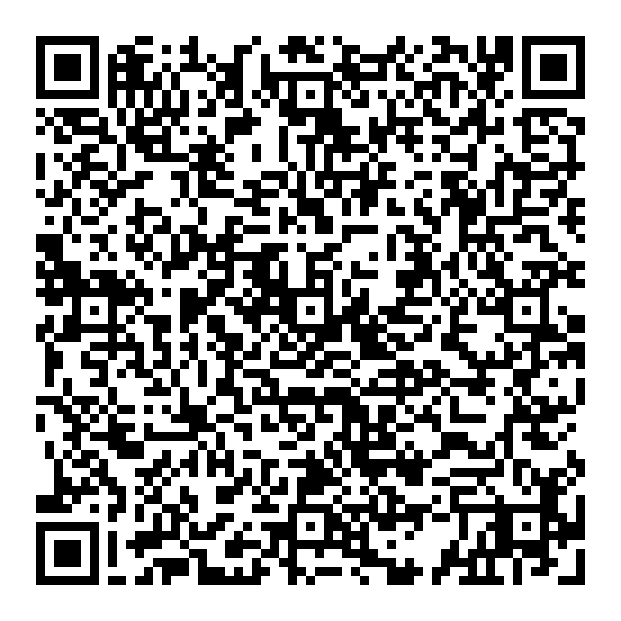
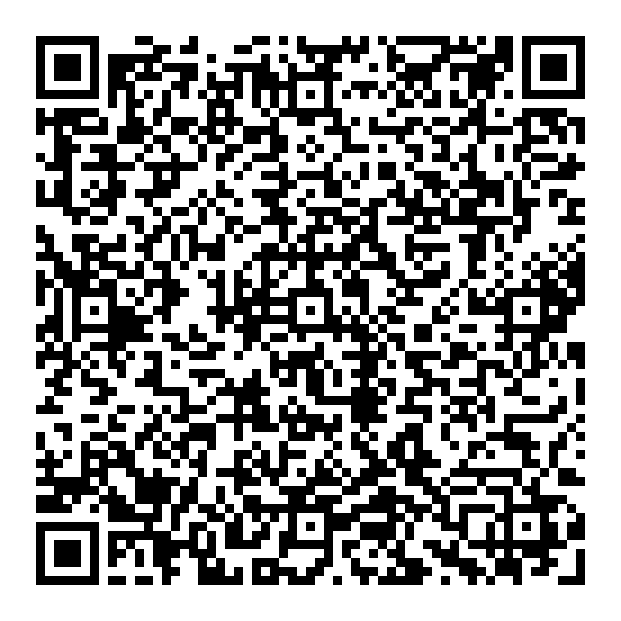
팀장 4회로 확대, 일하는 방식 서비스 기획 중심으로 재작성, 실제 명함 QR 반영
- 팀장 카드: 빅콘테스트, 교내 AI 경진대회, 구독 분석, 강화학습 PPO 역할 요약
- 그 밖의 활동에서 관광데이터 공모전 제외, PPO에 팀장 표시
- 일하는 방식 네 가지를 IT/AI 서비스 기획 관점으로 정리
- It's me: 앱에서 공유하는 실제 대표 명함 QR로 교체하고 설명 수정

Changed region(s): [[0.0306, 0.0612, 0.9485, 0.9485], [0.7955, 0.153, 0.8261, 0.2142]]

diff --git a/index.html b/index.html
@@ -141,16 +141,14 @@
     .survey .mini-facts > span > span { display: block; }
     .survey img { display: block; width: 100%; height: auto; border-radius: 14px; border: 1px solid var(--line); background: #fff; }
 
-    .lead-pair { display: grid; grid-template-columns: 1fr 1fr; gap: 14px; }
+    .lead-grid { display: grid; grid-template-columns: repeat(4, 1fr); gap: 12px; }
+    .lead-card { display: flex; flex-direction: column; }
+    .lead-card p { margin: 0; font-size: 14px; color: var(--ink-2); line-height: 1.65; }
+    .lead-card .more { margin-top: auto; padding-top: 12px; }
     .lead-card { background: #fff; border: 1px solid var(--line); border-radius: 18px; padding: 20px 22px; }
-    .lead-card .when { font: 500 11.5px/1 var(--mono); color: var(--ink-3); }
-    .lead-card h4 { margin: 8px 0 4px; font-size: 17px; letter-spacing: -.3px; }
-    .lead-card .team { font-size: 13px; color: var(--ink-3); margin: 0 0 14px; }
-    .lead-card ol { list-style: none; margin: 0; padding: 0; display: grid; gap: 12px; counter-reset: mo; }
-    .lead-card li { counter-increment: mo; position: relative; padding-left: 34px; font-size: 14.5px; color: var(--ink-2); line-height: 1.6; }
-    .lead-card li::before { content: counter(mo); position: absolute; left: 0; top: 1px; width: 22px; height: 22px; border-radius: 7px; background: var(--peach); color: var(--wine); font: 700 12px/22px var(--mono); text-align: center; }
-    .lead-card li b { display: block; color: var(--ink); font-size: 15px; }
-    .lead-card .more { display: inline-block; margin-top: 14px; font-size: 13.5px; font-weight: 700; }
+    .lead-card .when { font: 600 12px/1.3 var(--sans); color: var(--ink-3); }
+    .lead-card h4 { margin: 8px 0 10px; font-size: 16.5px; letter-spacing: -.3px; line-height: 1.4; }
+    .lead-card .more { font-size: 13.5px; font-weight: 700; }
 
     /* ---------- HOW I WORK ---------- */
     #how .sec-title em { font-style: normal; background: var(--grad); -webkit-background-clip: text; background-clip: text; color: transparent; }
@@ -278,6 +276,7 @@
       .stats { grid-template-columns: repeat(2, 1fr); }
       .pj-grid { grid-template-columns: repeat(2, 1fr); }
       .svc-grid { grid-template-columns: repeat(3, 1fr); }
+      .lead-grid { grid-template-columns: 1fr 1fr; }
       .principles { grid-template-columns: 1fr; }
       .oth-grid { grid-template-columns: repeat(2, 1fr); }
       .award-pair img { height: 420px; }
@@ -296,7 +295,7 @@
       .stat .lbl { font-size: 13px; }
       .stat-panel { padding: 18px 14px; border-radius: 18px; }
       .svc-grid { grid-template-columns: repeat(2, 1fr); }
-      .award-pair, .survey, .lead-pair { grid-template-columns: 1fr; }
+      .award-pair, .survey, .lead-grid { grid-template-columns: 1fr; }
       .award-pair img { height: auto; max-height: 520px; }
       .pr { grid-template-columns: 1fr; padding: 22px 20px 18px; }
       .pr .metric { grid-column: 1; grid-row: auto; text-align: left; margin-top: 10px; }
@@ -393,9 +392,9 @@
         <span class="open"><span lang="ko">결과 보기</span><span lang="en">Show</span><i class="fa-solid fa-chevron-down" aria-hidden="true"></i></span>
       </button>
       <button class="stat" type="button" aria-expanded="false" aria-controls="panel-lead">
-        <div class="num"><span lang="ko">팀장 2회</span><span lang="en">2× lead</span></div>
-        <div class="lbl"><span lang="ko">교내 AI 경진대회, 빅콘테스트</span><span lang="en">Campus AI contest, BigContest</span></div>
-        <span class="open"><span lang="ko">순간 보기</span><span lang="en">Show</span><i class="fa-solid fa-chevron-down" aria-hidden="true"></i></span>
+        <div class="num"><span lang="ko">팀장 4회</span><span lang="en">4× lead</span></div>
+        <div class="lbl"><span lang="ko">빅콘테스트, 교내 AI 경진대회, 수업 팀 프로젝트 2건</span><span lang="en">BigContest, campus AI contest, two course projects</span></div>
+        <span class="open"><span lang="ko">역할 보기</span><span lang="en">Show</span><i class="fa-solid fa-chevron-down" aria-hidden="true"></i></span>
       </button>
     </div>
 
@@ -492,46 +491,40 @@
       </div>
     </div>
 
-    <!-- 04 팀장 2회 -->
+    <!-- 04 팀장 4회 -->
     <div class="stat-panel" id="panel-lead" hidden>
       <div class="panel-head">
-        <h3 lang="ko">팀장으로 보여 준 순간들</h3><h3 lang="en">Moments as team lead</h3>
-        <p lang="ko">두 프로젝트 모두 전공과 역할이 다른 팀이었습니다.</p><p lang="en">Both were teams with different majors and roles.</p>
+        <h3 lang="ko">팀장으로 맡은 역할</h3><h3 lang="en">What I did as team lead</h3>
+        <p lang="ko">네 팀 모두 전공이나 역할이 서로 달랐습니다.</p><p lang="en">Each team mixed different majors or roles.</p>
       </div>
-      <div class="lead-pair">
+      <div class="lead-grid">
         <article class="lead-card">
-          <span class="when">2026.03</span>
+          <span class="when">2026.09 ~ 10 · <span lang="ko">4인</span><span lang="en">team of 4</span></span>
+          <h4 lang="ko">빅콘테스트 AI데이터활용 캡스톤</h4><h4 lang="en">BigContest AI Data Capstone</h4>
+          <p lang="ko"><span class="s"><span class="u">브랜치, 리뷰, 데이터 보호 규칙을 먼저 세우고</span> <span class="u">의사결정 로그로 팀이 같은 근거를 보게 했습니다.</span></span><span class="s"><span class="u">문제 정의와 분석 설계,</span> <span class="u">AI 에이전트 구현을 맡았습니다.</span></span></p>
+          <p lang="en">Set branch, review and data-protection rules first and kept a decision log; owned problem framing, analysis design and the AI agent build.</p>
+          <a class="more" href="https://github.com/13JVV/capstone-overview" target="_blank" rel="noopener"><span lang="ko">프로젝트 소개</span><span lang="en">Overview</span> ↗</a>
+        </article>
+        <article class="lead-card">
+          <span class="when">2026.03 · <span lang="ko">5인</span><span lang="en">team of 5</span></span>
           <h4 lang="ko">교내 AI 문제해결 경진대회</h4><h4 lang="en">Campus AI Problem-Solving Contest</h4>
-          <p class="team" lang="ko">5인, 경영학·아태물류학·전기전자공학·산업경영공학</p><p class="team" lang="en">Team of 5 from four majors</p>
-          <ol lang="ko">
-            <li><b>공통 문제부터 정했습니다</b><span class="s"><span class="u">네 전공이 서로 다른 말로 안전을 볼 때,</span> <span class="u">‘한정된 순찰 인력과 정비 예산을 어디에 먼저 쓸까’라는 자원 배분 문제로 다시 정의했습니다.</span></span></li>
-            <li><b>산출물을 한 흐름으로 묶었습니다</b><span class="s"><span class="u">위험 정량화, 디지털 트윈, 정책, 물류, 엣지 인프라로 나누되</span> <span class="u">모두 상태, 행동, 결과의 흐름에 연결되게 조율했습니다.</span></span></li>
-            <li><b>제 안을 내려놓았습니다</b><span class="s"><span class="u">전공별 제안이 부딪히자 두 대시보드 안을 직접 만들어 비교했고,</span> <span class="u">팀원 전문성이 더 드러나는 안을 채택해 제 초기 안을 고쳤습니다.</span></span></li>
-          </ol>
-          <ol lang="en">
-            <li><b>Set one shared problem</b>I reframed campus safety as a resource allocation question: where to send limited patrol staff and repair budget first.</li>
-            <li><b>Tied every output into one flow</b>Roles were split by major, but every output had to connect to one state, action, result flow.</li>
-            <li><b>Let go of my own draft</b>When proposals clashed, I built two dashboard options, compared them, and adopted the one that showed my teammates' expertise better.</li>
-          </ol>
+          <p lang="ko"><span class="s"><span class="u">네 전공이 다르게 보던 안전 문제를</span> <span class="u">‘인력과 예산을 어디에 먼저 쓸까’라는 한 질문으로 묶었습니다.</span></span><span class="s"><span class="u">두 화면안을 만들어 비교한 뒤</span> <span class="u">팀원 안을 채택하고 제 안을 고쳤습니다.</span></span></p>
+          <p lang="en">Turned four majors' views into one question, where to spend staff and budget first; built two dashboard options and adopted a teammate's.</p>
           <a class="more" href="projects/campus/"><span lang="ko">사례 보기</span><span lang="en">Case study</span> →</a>
         </article>
         <article class="lead-card">
-          <span class="when">2026.09 ~ 2026.10</span>
-          <h4 lang="ko">빅콘테스트 AI데이터활용 캡스톤</h4><h4 lang="en">BigContest AI Data Capstone</h4>
-          <p class="team" lang="ko">4인, 산업경영공학과 · 사회적 고립 예방 AI 에이전트</p><p class="team" lang="en">Team of 4 · AI agent for preventing social isolation</p>
-          <ol lang="ko">
-            <li><b>일하는 규칙부터 세웠습니다</b><span class="s"><span class="u">main 직접 푸시를 막고,</span> <span class="u">기능별 브랜치와 팀원 확인 뒤 병합하는 규칙을 정했습니다.</span></span></li>
-            <li><b>데이터가 새지 않게 막았습니다</b><span class="s"><span class="u">공모전 원본 데이터와 API 키는</span> <span class="u">커밋 단계의 훅으로 저장소에 올라가지 않게 했습니다.</span></span></li>
-            <li><b>같은 근거로 판단하게 했습니다</b><span class="s"><span class="u">ERD, 회의 정리, 의사결정 로그를 문서로 남겨</span> <span class="u">팀원이 같은 자료를 보고 결정하게 했습니다.</span></span></li>
-            <li><b>가장 무거운 부분을 맡았습니다</b><span class="s"><span class="u">문제 정의와 분석 설계, 데이터 파이프라인,</span> <span class="u">위험도 모형, 에이전트, 정수계획 최적화를 구현했습니다.</span></span></li>
-          </ol>
-          <ol lang="en">
-            <li><b>Set working rules first</b>No direct pushes to main; feature branches merged after a teammate's review.</li>
-            <li><b>Kept data from leaking</b>Commit hooks blocked raw contest data and API keys from the repository.</li>
-            <li><b>Made decisions on shared evidence</b>An ERD, meeting notes and a decision log kept everyone on the same page.</li>
-            <li><b>Took the heaviest part</b>I built the problem framing, pipeline, risk model, agent and integer-programming allocation.</li>
-          </ol>
-          <a class="more" href="https://github.com/13JVV/capstone-overview" target="_blank" rel="noopener"><span lang="ko">프로젝트 소개</span><span lang="en">Overview</span> ↗</a>
+          <span class="when">2026 1<span lang="ko">학기 · 4인</span><span lang="en">st semester · team of 4</span></span>
+          <h4 lang="ko">생성형 AI 구독 모델 분석</h4><h4 lang="en">Generative AI Subscription Study</h4>
+          <p lang="ko"><span class="s"><span class="u">설문 설계를 이끌다 초안에서 모든 속성이 앞서는 선택지를 발견해,</span> <span class="u">일정을 늦추더라도 다시 설계하자고 결정했습니다.</span></span><span class="s">유효 응답 113명을 모았습니다.</span></p>
+          <p lang="en">Led survey design; when the draft had options that beat others on every attribute, I chose to delay and redesign. Collected 113 valid responses.</p>
+          <a class="more" href="projects/subscription/"><span lang="ko">사례 보기</span><span lang="en">Case study</span> →</a>
+        </article>
+        <article class="lead-card">
+          <span class="when"><span lang="ko">수업 프로젝트 · 3인</span><span lang="en">Course project · team of 3</span></span>
+          <h4 lang="ko">강화학습 PPO</h4><h4 lang="en">Reinforcement Learning (PPO)</h4>
+          <p lang="ko"><span class="s"><span class="u">10개 설정을 3개 시드로 돌리는 실험을 맡고,</span> <span class="u">평균뿐 아니라 시드 간 편차까지 보는 기준으로 최종 설정을 골랐습니다.</span></span></p>
+          <p lang="en">Ran 10 settings across 3 seeds and picked the final setting by spread across seeds, not the mean alone.</p>
+          <a class="more" href="projects/lunar/"><span lang="ko">사례 보기</span><span lang="en">Case study</span> →</a>
         </article>
       </div>
     </div>
@@ -540,43 +533,43 @@
     <section class="sec" id="how">
       <div class="sec-head reveal">
         <p class="sec-kicker">How I work</p>
-        <h2 class="sec-title" lang="ko"><span class="u">산업경영공학으로 배운 방식으로</span> <span class="u"><em>기획합니다</em></span></h2>
-        <h2 class="sec-title" lang="en">I plan the way <em>industrial engineering</em> taught me</h2>
-        <p class="sec-desc" lang="ko">작게 검증하고, 숫자로 고르고, 제약 안에서 배분하고, 결과를 시험합니다.</p>
-        <p class="sec-desc" lang="en">Validate small, choose with numbers, allocate under constraints, and test the result.</p>
+        <h2 class="sec-title" lang="ko"><span class="u">사용자 문제를</span> <span class="u"><em>서비스로 만드는</em> 네 가지 방식</span></h2>
+        <h2 class="sec-title" lang="en">Four ways I turn user problems <em>into services</em></h2>
+        <p class="sec-desc" lang="ko"><span class="s"><span class="u">IT, AI 서비스를 기획하고 출시하며 지켜 온 습관입니다.</span> <span class="u">산업경영공학에서 배운 실험 설계와 데이터 분석은 결정의 근거로 사용합니다.</span></span></p>
+        <p class="sec-desc" lang="en">Habits I kept while planning and shipping IT and AI services. What I learned in industrial engineering, experiment design and data analysis, backs my decisions.</p>
       </div>
       <div class="principles">
         <article class="pr reveal">
-          <div class="idx"><span class="no">01</span><span class="ie">MVP</span></div>
-          <h3 lang="ko">MVP로 먼저 검증합니다</h3><h3 lang="en">Validate with an MVP first</h3>
-          <p lang="ko"><span class="s"><span class="u">핵심 가설 하나만 담은 MVP를 먼저 내고,</span> <span class="u">실제 사용 흐름과 심사 의견을 본 뒤 기능을 붙입니다.</span></span></p>
-          <p lang="en">I ship an MVP that tests one core hypothesis, then add features after seeing real usage and store review notes.</p>
+          <div class="idx"><span class="no">01</span><span class="ie" lang="ko">MVP · 출시 후 개선</span><span class="ie" lang="en">MVP · iterate after launch</span></div>
+          <h3 lang="ko">MVP로 먼저 내고, 반응을 보고 고칩니다</h3><h3 lang="en">Ship an MVP, then fix what users show me</h3>
+          <p lang="ko"><span class="s"><span class="u">핵심 기능 하나로 출시한 뒤</span> <span class="u">사용자 피드백과 스토어 심사 의견을 다음 기능의 우선순위로 바꿉니다.</span></span></p>
+          <p lang="en">I launch with one core feature, then turn user feedback and store review notes into the next priorities.</p>
           <div class="metric"><span class="v">2<small style="font-size:20px">개</small></span><span class="k" lang="ko">스토어에 직접 출시한 앱</span><span class="k" lang="en">apps I shipped to stores</span></div>
-          <div class="ev"><b>It's me</b> <span lang="ko">명함 생성과 QR 공유로 MVP 출시 → 반려 3건과 피드백 반영 → 명함 인식, 지갑 추가</span><span lang="en">MVP with card creation and QR sharing → fixed 3 store rejections and feedback → added card scan and wallet</span></div>
+          <div class="ev"><b>It's me</b> <span lang="ko">명함 생성과 QR 공유로 출시 → 심사 반려 3건과 지인 피드백 반영 → 명함 인식, 지갑 추가, 세로 명함과 4개 탭으로 재구성</span><span lang="en">launched with card creation and QR sharing → fixed 3 store rejections and feedback → added card scan, wallet, and a 4-tab layout</span></div>
         </article>
         <article class="pr reveal">
-          <div class="idx"><span class="no">02</span><span class="ie" lang="ko">실험계획 · 선택모형</span><span class="ie" lang="en">Experiment design · choice model</span></div>
-          <h3 lang="ko">사용자 선호는 숫자로 측정합니다</h3><h3 lang="en">Measure preference in numbers</h3>
-          <p lang="ko"><span class="s"><span class="u">“다 중요하다”로 끝나는 평점 대신</span> <span class="u">사용자가 무엇을 포기하고 고르는지 선택 실험으로 재고 우선순위를 정합니다.</span></span></p>
-          <p lang="en">Instead of ratings where everything is "important", I measure trade-offs with choice experiments and set priorities from them.</p>
-          <div class="metric"><span class="v">26.4%</span><span class="k" lang="ko">전문성의 상대적 중요도 (정확도 16.4%)</span><span class="k" lang="en">importance of expertise (accuracy 16.4%)</span></div>
-          <div class="ev"><b lang="ko">구독 모델 분석</b><b lang="en">Subscription study</b> <span lang="ko">113명 이산선택실험, ‘정확도가 1순위’라는 가설이 데이터로 지지되지 않음</span><span lang="en">113 respondents; the "accuracy first" hypothesis was not supported</span></div>
+          <div class="idx"><span class="no">02</span><span class="ie" lang="ko">사용자 리서치 · 우선순위</span><span class="ie" lang="en">User research · priorities</span></div>
+          <h3 lang="ko">기능 우선순위는 사용자의 선택으로 정합니다</h3><h3 lang="en">Users' choices set feature priorities</h3>
+          <p lang="ko"><span class="s"><span class="u">“다 중요하다”는 답 대신,</span> <span class="u">사용자가 무엇을 포기하고 무엇을 고르는지 실험으로 확인합니다.</span></span><span class="s">팀의 가정이 틀렸다면 데이터를 따릅니다.</span></p>
+          <p lang="en">Instead of "everything matters", I test what users give up and what they pick. When our assumption is wrong, I follow the data.</p>
+          <div class="metric"><span class="v">26.4%</span><span class="k" lang="ko">1순위는 정확도가 아니라 전문성 (113명)</span><span class="k" lang="en">top factor was expertise, not accuracy (113 people)</span></div>
+          <div class="ev"><b lang="ko">생성형 AI 구독 분석</b><b lang="en">AI subscription study</b> <span lang="ko">‘정확도가 가장 중요하다’는 팀 가설이 선택 실험에서 지지되지 않아, 기능 우선순위를 다시 검토할 근거로 정리</span><span lang="en">the "accuracy first" hypothesis was not supported, giving us grounds to revisit feature priorities</span></div>
         </article>
         <article class="pr reveal">
-          <div class="idx"><span class="no">03</span><span class="ie" lang="ko">수리최적화 · 시뮬레이션</span><span class="ie" lang="en">Optimization · simulation</span></div>
-          <h3 lang="ko">한정된 자원은 최적화로 나눕니다</h3><h3 lang="en">Allocate scarce resources by optimization</h3>
-          <p lang="ko"><span class="s"><span class="u">인력과 예산이 모자랄 때 어디에 먼저 쓸지를</span> <span class="u">목적함수와 제약식으로 풀고, 바꾸기 전에 시뮬레이션으로 비교합니다.</span></span></p>
-          <p lang="en">When people and budget run short, I solve where to spend first with an objective and constraints, and compare options in simulation before changing anything.</p>
-          <div class="metric"><span class="v word" lang="ko">정수계획</span><span class="v word" lang="en">Integer programming</span><span class="k" lang="ko">복지 인력시간 배분 + 민감도 분석</span><span class="k" lang="en">welfare staff-hour allocation + sensitivity</span></div>
-          <div class="ev"><b lang="ko">빅콘테스트, 교내 경진대회, 생산공정</b><b lang="en">BigContest, campus contest, production line</b> <span lang="ko">정수계획 배분, 순찰과 정비의 순차 의사결정(PPO) 설계, Arena 공정 개선안 비교</span><span lang="en">integer-programming allocation, PPO patrol and repair design, Arena process comparison</span></div>
-        </article>
-        <article class="pr reveal">
-          <div class="idx"><span class="no">04</span><span class="ie" lang="ko">검증 설계</span><span class="ie" lang="en">Validation design</span></div>
-          <h3 lang="ko">AI 결과에는 검증 기준을 붙입니다</h3><h3 lang="en">Attach a test to every AI result</h3>
-          <p lang="ko"><span class="s"><span class="u">AI가 만든 결과는 정답을 아는 데이터로 시험하고,</span> <span class="u">틀릴 수 있는 지점에는 사람이 확인하는 단계를 넣습니다.</span></span></p>
-          <p lang="en">I test AI output against data with known answers, and put a human check where it can go wrong.</p>
+          <div class="idx"><span class="no">03</span><span class="ie" lang="ko">AI 서비스 설계</span><span class="ie" lang="en">AI service design</span></div>
+          <h3 lang="ko">AI 기능에는 검증과 사람의 확인을 붙입니다</h3><h3 lang="en">AI features come with tests and a human check</h3>
+          <p lang="ko"><span class="s"><span class="u">AI가 만든 결과는 출시 전에 정답을 아는 데이터로 시험하고,</span> <span class="u">틀릴 수 있는 지점에는 사용자가 확인하는 단계를 화면에 넣습니다.</span></span></p>
+          <p lang="en">Before launch I test AI output against data with known answers, and put a review step on screen where it can go wrong.</p>
           <div class="metric"><span class="v">90.6%</span><span class="k" lang="ko">CrowdSense 혼잡 등급 상승 1,877건 중 사전 예고 (백테스트)</span><span class="k" lang="en">of 1,877 crowd surges flagged ahead (backtest)</span></div>
-          <div class="ev"><b>J-Verdict, <span lang="ko">징검다리</span><span lang="en">Jinggeomdari</span></b> <span lang="ko">합성데이터 판정 2,400회에서 없는 효과를 있다고 한 비율 2.4%, AI 분석은 교사가 승인한 것만 학생에게</span><span lang="en">2.4% false "effect" calls over 2,400 synthetic runs; only teacher-approved AI output reaches students</span></div>
+          <div class="ev"><b>It's me, <span lang="ko">징검다리</span><span lang="en">Jinggeomdari</span>, J-Verdict</b> <span lang="ko">AI가 읽은 명함은 저장 전에 사용자가 확인, AI 분석은 교사가 승인한 것만 학생에게, 합성데이터 판정 2,400회로 오판율 확인</span><span lang="en">users confirm AI-read cards before saving, only teacher-approved output reaches students, 2,400 synthetic runs to measure false calls</span></div>
+        </article>
+        <article class="pr reveal">
+          <div class="idx"><span class="no">04</span><span class="ie" lang="ko">신뢰를 주는 UX</span><span class="ie" lang="en">Trustworthy UX</span></div>
+          <h3 lang="ko">모르는 것은 모른다고 화면에 보여 줍니다</h3><h3 lang="en">Show users what the service doesn't know</h3>
+          <p lang="ko"><span class="s"><span class="u">데이터가 없거나 모호하면 그럴듯하게 채우지 않고</span> <span class="u">‘확인 필요’, ‘판정 불가’처럼 그 상태를 그대로 알려 줍니다.</span></span></p>
+          <p lang="en">When data is missing or unclear, I don't fill the gap with a guess; the screen says "check needed" or "cannot judge".</p>
+          <div class="metric"><span class="v">1.3%</span><span class="k" lang="ko">동반 조건을 읽을 수 있던 시설 (48,786건 중 626건)</span><span class="k" lang="en">venues with readable pet rules (626 of 48,786)</span></div>
+          <div class="ev"><b><span lang="ko">반갑꼬리</span><span lang="en">Bangapkkori</span>, CrowdSense</b> <span lang="ko">조건이 없는 시설은 ‘가능’이 아니라 ‘확인 필요’로, 오차가 신호보다 큰 데이터는 경보 대신 ‘판정 불가’로 표시</span><span lang="en">venues without rules show "check needed", and data noisier than the signal shows "cannot judge" instead of an alert</span></div>
         </article>
       </div>
     </section>
@@ -716,20 +709,13 @@
           </div>
         </div>
         <div class="oth" tabindex="0">
-          <div class="oth-top"><span class="when"><span lang="ko">수업 프로젝트</span><span lang="en">Course project</span></span><h3><span lang="ko">강화학습 PPO</span><span lang="en">Reinforcement Learning (PPO)</span></h3></div>
+          <div class="oth-top"><span class="when"><span lang="ko">수업 프로젝트</span><span lang="en">Course project</span></span><h3><span lang="ko">강화학습 PPO</span><span lang="en">Reinforcement Learning (PPO)</span><span class="lead-tag" lang="ko">팀장</span><span class="lead-tag" lang="en">Lead</span></h3></div>
           <div class="oth-pop">
             <p lang="ko">LunarLander에서 PPO 설정별 학습 로그를 비교했습니다.</p>
             <p lang="en">Compared training logs across PPO settings in LunarLander.</p>
             <a href="projects/lunar/"><span lang="ko">사례 보기</span><span lang="en">Case study</span> →</a>
           </div>
         </div>
-        <div class="oth" tabindex="0">
-          <div class="oth-top"><span class="when">2026.07</span><h3><span lang="ko">관광데이터 활용 공모전</span><span lang="en">Tourism Data Contest</span></h3></div>
-          <div class="oth-pop">
-            <p lang="ko">반갑꼬리로 공모전에 제출하고 발표를 마쳤습니다.</p>
-            <p lang="en">Submitted and presented Bangapkkori.</p>
-            <a href="projects/pet/"><span lang="ko">반갑꼬리 보기</span><span lang="en">See Bangapkkori</span> →</a>
-          </div>
         </div>
       </div>
     </section>

diff --git a/projects/itsme/index.html b/projects/itsme/index.html
@@ -235,7 +235,7 @@
                   <h3>설치한 뒤, 앱 하단 ‘스캔’ 탭으로 제 명함 QR을 찍습니다</h3>
                   <p><span class="s"><span class="u">앱에 들어 있는 스캐너가 It's me 명함 링크를 읽고</span> <span class="u">받은 명함 카드를 띄웁니다.</span></span><span class="s">‘지갑에 저장’을 누르면 제 명함이 지갑에 들어갑니다.</span></p>
                   <div class="meta">
-                    <a class="direct" data-card-link href="https://persona-772ab.web.app/card/s?n=%EC%8B%A0%EC%9E%AC%EC%9A%B0&amp;o=%EC%9D%B8%ED%95%98%EB%8C%80%ED%95%99%EA%B5%90%20%EC%82%B0%EC%97%85%EA%B2%BD%EC%98%81%EA%B3%B5%ED%95%99%EA%B3%BC&amp;r=AI%C2%B7IT%20%EC%84%9C%EB%B9%84%EC%8A%A4%20%EA%B8%B0%ED%9A%8D" target="_blank" rel="noopener"><i class="fa-solid fa-arrow-up-right-from-square" aria-hidden="true"></i>QR을 찍기 어려우면 바로 열기</a>
+                    <a class="direct" data-card-link href="https://persona-772ab.web.app/card/s?n=%EC%8B%A0%EC%9E%AC%EC%9A%B0&amp;o=%EC%9D%B8%ED%95%98%EB%8C%80%ED%95%99%EA%B5%90&amp;r=%EB%8C%80%ED%95%99%EA%B5%90%204%ED%95%99%EB%85%84" target="_blank" rel="noopener"><i class="fa-solid fa-arrow-up-right-from-square" aria-hidden="true"></i>QR을 찍기 어려우면 바로 열기</a>
                   </div>
                 </div>
                 <figure class="qr">
@@ -246,19 +246,19 @@
               <li>
                 <div>
                   <h3>지갑에서 받은 명함을 열어 봅니다</h3>
-                  <p><span class="s">이름, 학과, 역할, 메일이 명함 한 장에 담겨 있습니다.</span><span class="s">언제 받았는지도 함께 남습니다.</span></p>
-                  <div class="fields" aria-label="QR에 담긴 항목"><span>이름</span><span>학과</span><span>역할</span><span>메일</span></div>
+                  <p><span class="s"><span class="u">제 앱 명함의 이름, 소속, 직함, 연락처가</span> <span class="u">한 장에 담겨 저장됩니다.</span></span><span class="s"><span class="u">제가 명함을 고치면</span> <span class="u">지갑의 명함도 자동으로 최신화되고, 언제 받았는지도 남습니다.</span></span></p>
+                  <div class="fields" aria-label="QR에 담긴 항목"><span>이름</span><span>소속</span><span>직함</span><span>연락처</span></div>
                 </div>
               </li>
             </ol>
 
             <div class="try-actions">
-              <a class="btn sm" data-card-link href="https://persona-772ab.web.app/card/s?n=%EC%8B%A0%EC%9E%AC%EC%9A%B0&amp;o=%EC%9D%B8%ED%95%98%EB%8C%80%ED%95%99%EA%B5%90%20%EC%82%B0%EC%97%85%EA%B2%BD%EC%98%81%EA%B3%B5%ED%95%99%EA%B3%BC&amp;r=AI%C2%B7IT%20%EC%84%9C%EB%B9%84%EC%8A%A4%20%EA%B8%B0%ED%9A%8D" target="_blank" rel="noopener"><i class="fa-regular fa-id-card" aria-hidden="true"></i>앱 없이 웹 명함으로 보기</a>
+              <a class="btn sm" data-card-link href="https://persona-772ab.web.app/card/s?n=%EC%8B%A0%EC%9E%AC%EC%9A%B0&amp;o=%EC%9D%B8%ED%95%98%EB%8C%80%ED%95%99%EA%B5%90&amp;r=%EB%8C%80%ED%95%99%EA%B5%90%204%ED%95%99%EB%85%84" target="_blank" rel="noopener"><i class="fa-regular fa-id-card" aria-hidden="true"></i>앱 없이 웹 명함으로 보기</a>
             </div>
 
             <div class="try-notes">
               <p><i class="fa-solid fa-circle-info" aria-hidden="true"></i><span class="s"><span class="u">앱이 이미 있으면 기본 카메라로 명함 QR을 찍어도</span> <span class="u">앱이 열려 지갑에 저장되고,</span></span><span class="s">앱이 없으면 웹 명함 페이지가 열립니다.</span></p>
-              <p><i class="fa-solid fa-link" aria-hidden="true"></i><span class="s"><span class="u">명함 그림에는 GitHub와 포트폴리오도 보이지만,</span> <span class="u">이 QR에는 이름, 학과, 역할, 메일만 담았습니다.</span></span><span class="s">GitHub, 포트폴리오 링크는 앱에서 만든 실제 명함에 함께 담겨 공유됩니다.</span></p>
+              <p><i class="fa-solid fa-link" aria-hidden="true"></i><span class="s"><span class="u">명함 그림은 학과, 메일, GitHub, 포트폴리오까지 담을 수 있다는 걸 보여 주는 예시입니다.</span> <span class="u">QR은 제가 앱에서 실제로 공유하는 대표 명함입니다.</span></span></p>
             </div>
           </div>
         </div>
@@ -583,8 +583,9 @@
       document.querySelectorAll('[data-mail-text]').forEach(function (el) { el.textContent = mail; });
       document.querySelectorAll('[data-mail-link]').forEach(function (el) { el.setAttribute('href', 'mailto:' + mail); });
 
-      // 웹 명함 링크: 앱의 cardLink 규칙(n, o, r, e 순서, 값마다 encodeURIComponent)과 같게 만들어, QR과 같은 주소가 되게 합니다.
-      var fields = [['n', '신재우'], ['o', '인하대학교 산업경영공학과'], ['r', 'AI·IT 서비스 기획'], ['e', mail]];
+      // 웹 명함 링크: 제 앱 공유 화면의 QR과 같은 주소(앱의 cardLink 규칙)로 만듭니다.
+      var fields = [['n', '신재우'], ['p', ['010', '8698', '1392'].join('-')], ['o', '인하대학교'], ['r', '대학교 4학년'],
+        ['oid', 'naver:Q76svXtY8UwaULN-dAeH2FrTW3jP2t229CB1FGP23oQ'], ['cid', '1793069978825']];
       var url = 'https://persona-772ab.web.app/card/s?' + fields.map(function (f) { return f[0] + '=' + encodeURIComponent(f[1]); }).join('&');
       document.querySelectorAll('[data-card-link]').forEach(function (el) { el.setAttribute('href', url); });
     })();

diff --git a/projects/lunar/index.html b/projects/lunar/index.html
@@ -90,7 +90,7 @@
         <span class="s"><span class="u">10개 설정을 3개 시드에서 실행한</span> <span class="u">30회 학습 결과입니다.</span></span>
       </p>
       <div class="chips">
-        <span class="chip role">학습률, 엔트로피 스윕 실행과 비교 분석 (3인 팀)</span>
+        <span class="chip role">팀장, 학습률·엔트로피 스윕과 비교 분석 (3인 팀)</span>
         <span class="chip">수업 팀 프로젝트</span>
         <span class="chip">Python</span><span class="chip">Stable-Baselines3</span><span class="chip">Gymnasium</span><span class="chip">PyTorch</span><span class="chip">TensorBoard</span>
       </div>
@@ -152,7 +152,7 @@
         </div>
         <div class="card">
           <span class="tag">팀과 수업</span>
-          <p><span class="s">강화학습 및 알고리즘 수업의 3인 팀 프로젝트입니다.</span><span class="s"><span class="u">수치는 팀 발표자료의 TensorBoard</span> <span class="u">rollout/ep_rew_mean 기록(약 50만 스텝 시점)입니다.</span></span></p>
+          <p><span class="s">강화학습 및 알고리즘 수업의 3인 팀 프로젝트로, 팀장을 맡았습니다.</span><span class="s"><span class="u">수치는 팀 발표자료의 TensorBoard</span> <span class="u">rollout/ep_rew_mean 기록(약 50만 스텝 시점)입니다.</span></span></p>
         </div>
       </div>
     </section>
